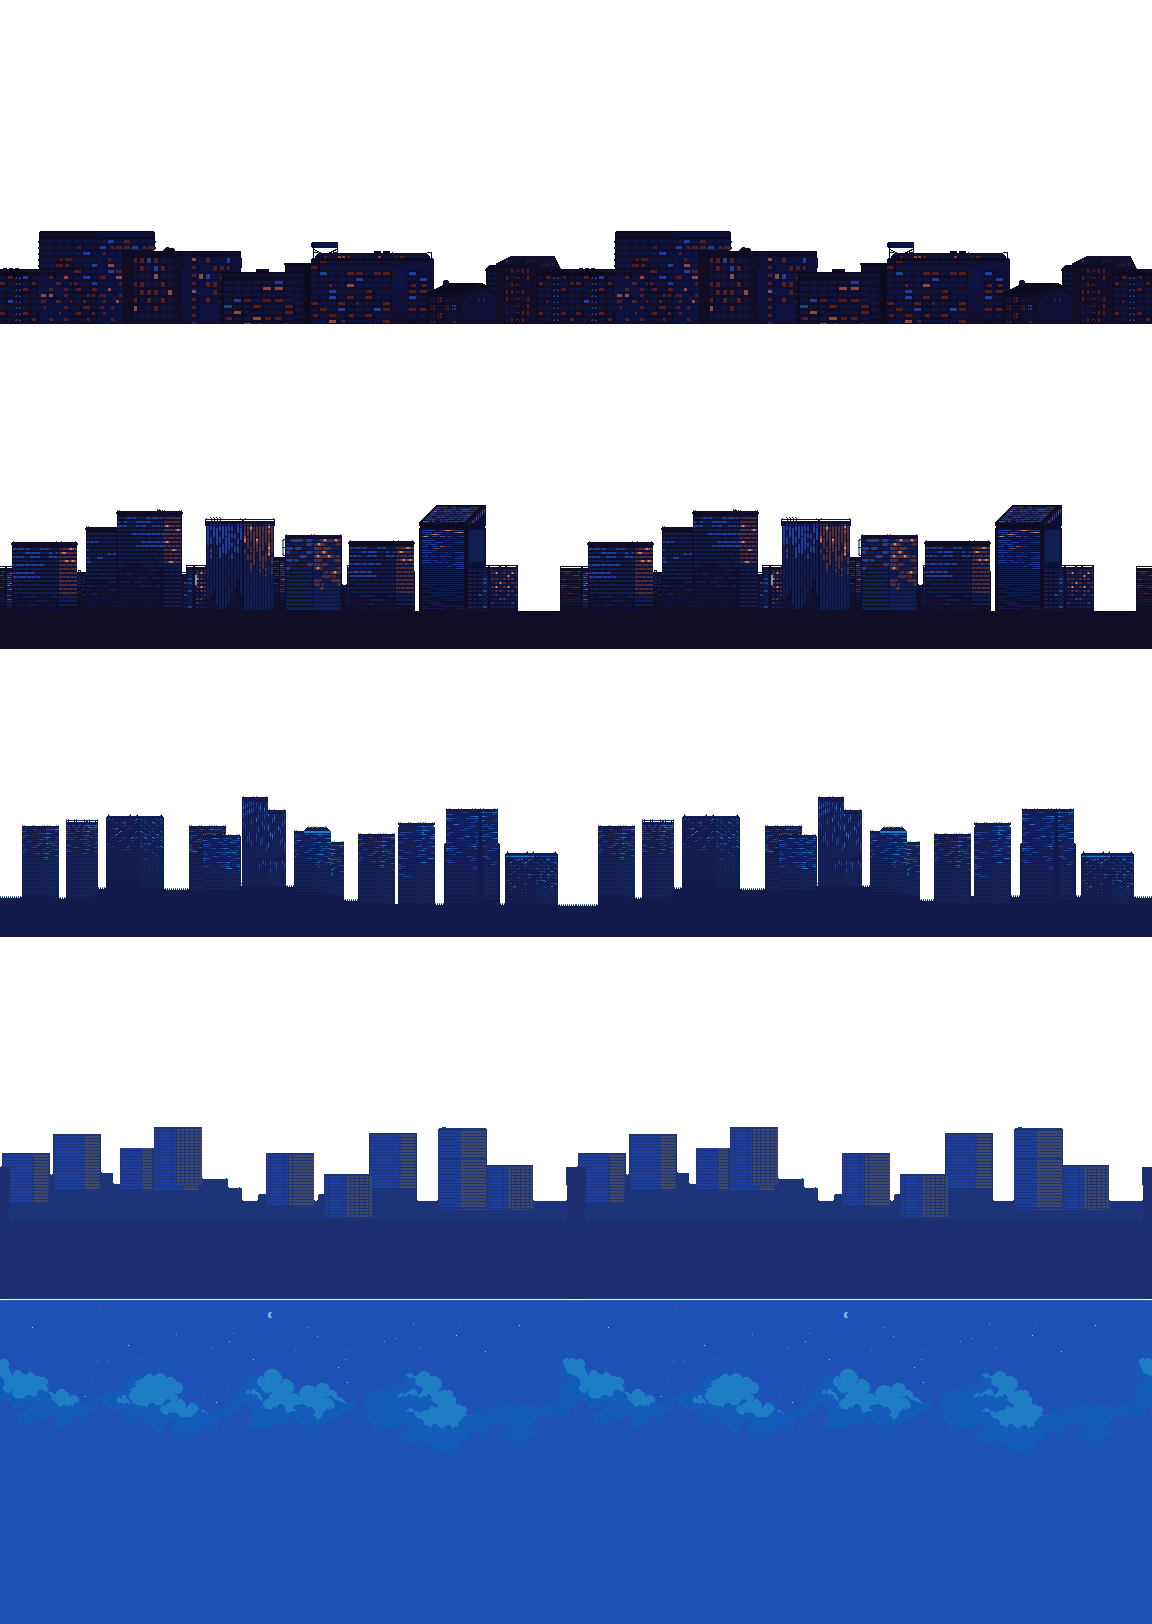
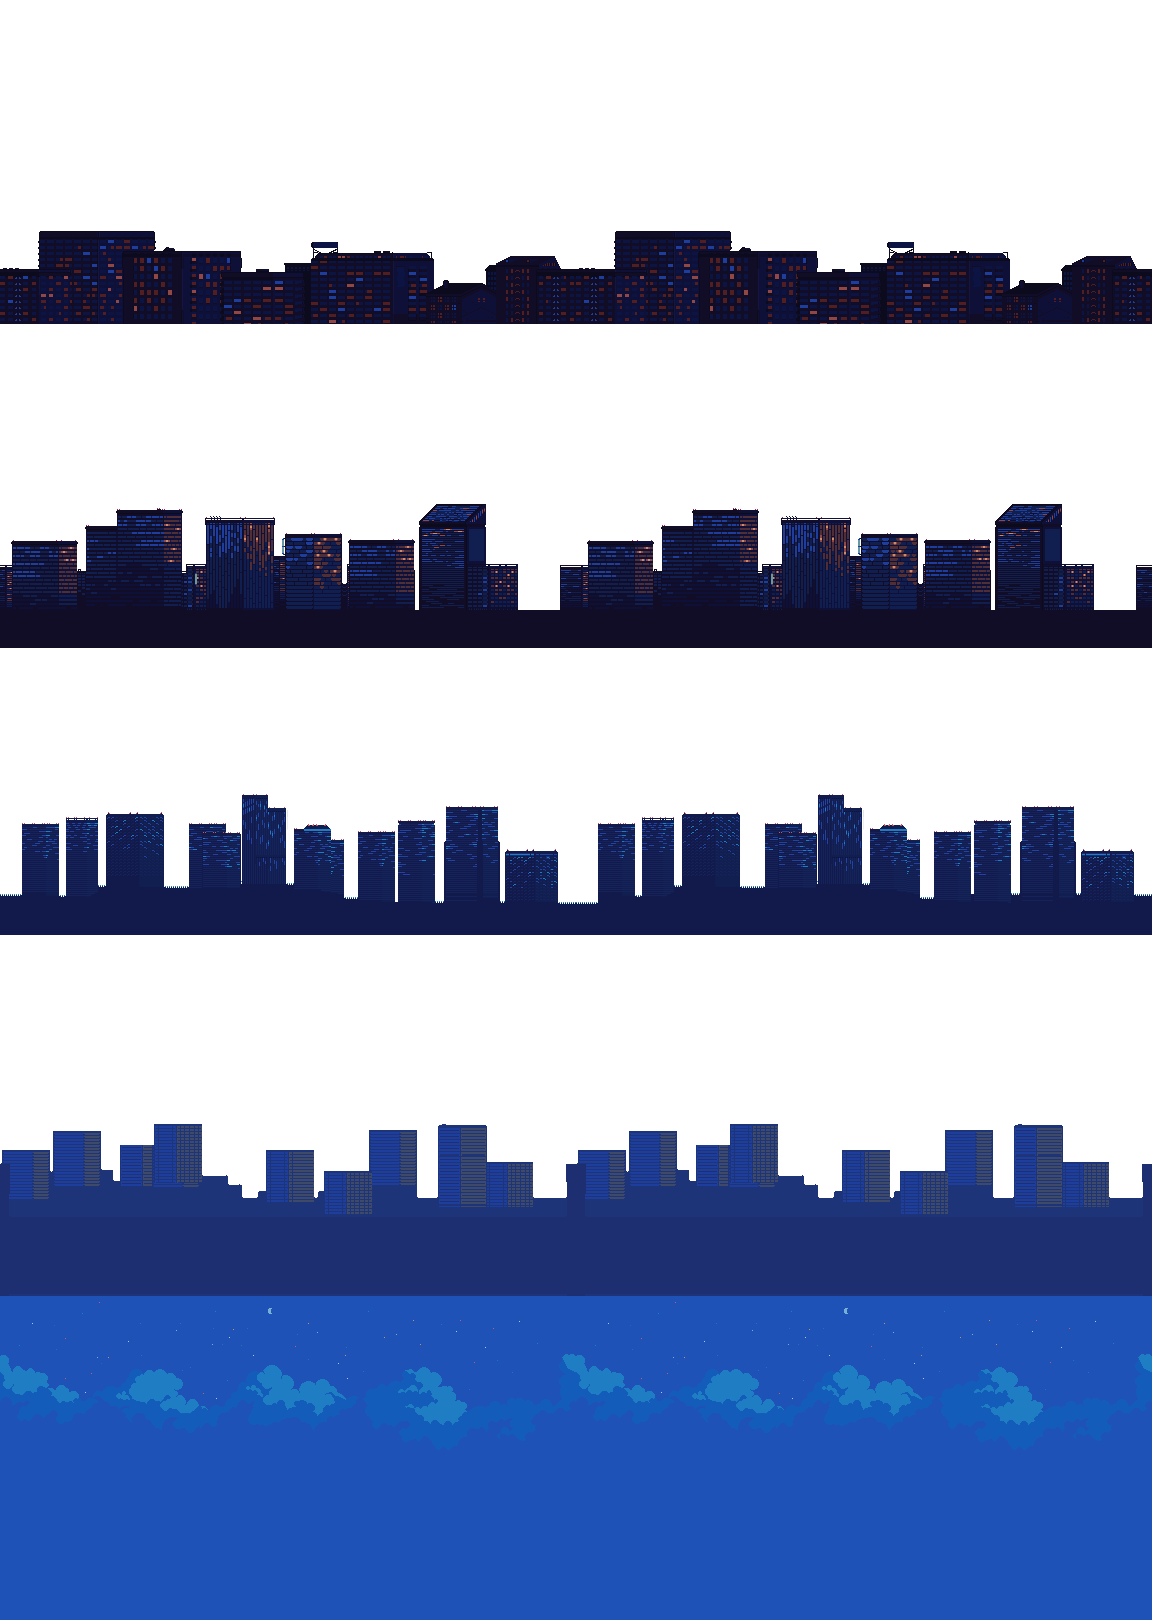
Made title appear in menu. Changed parallax layers speed according to cubic polynomial

diff --git a/DTU/src/main_menu/main_menu.cpp b/DTU/src/main_menu/main_menu.cpp
@@ -2,6 +2,8 @@
 
 #include "player/logging.hpp"
 #include "player/nonuniform_tiles.hpp"
+#include "player/static_image.hpp"
+#include "player/window.hpp"
 
 #include <array>
 #include <glm/gtc/matrix_transform.hpp>
@@ -9,18 +11,37 @@
 
 // NOLINTNEXTLINE
 static surge::atom::nonuniform_tiles::buffer_data g_background_buffer{};
+
+// NOLINTNEXTLINE
 static surge::atom::nonuniform_tiles::draw_data g_background_draw_data{};
 
-static constexpr const GLsizei background_layer_count{5};
-static constexpr const std::array<float, background_layer_count> background_drift_speeds{
-    0.0f, 0.01f, 0.02f, 0.04f, 0.08f};
+// NOLINTNEXTLINE
+static surge::atom::static_image::one_buffer_data g_title_buffer{};
 
-auto DTU::state::main_menu::load(float ww, float wh) noexcept -> int {
+// NOLINTNEXTLINE
+static surge::atom::static_image::one_draw_data g_title_draw_data{};
+
+// Parallax background
+static constexpr const GLsizei background_layer_count{5};
+
+// clang-format off
+// Obtained from the cubic polynomial (4 + x + x^2) / 400
+static constexpr const std::array<float, background_layer_count> background_drift_speeds{
+    1.0f / 100.0f,
+    3.0f / 200.0f,
+    1.0f / 40.0f,
+    1.0f / 25.0f,
+    3.0f / 50.0f
+};
+// clang-format on
+
+auto DTU::state::main_menu::load(surge::queue<surge::u32> &cmdq, float ww, float wh) noexcept
+    -> int {
   using namespace surge;
 
   log_info("Loading main_menu state");
 
-  // Load background
+  // Background
   log_info("Loading background images");
 
   atom::nonuniform_tiles::tile_structure background_ts{"resources/main_menu/background.png",
@@ -40,29 +61,64 @@ auto DTU::state::main_menu::load(float ww, float wh) noexcept -> int {
         glm::translate(glm::mat4{1.0f}, glm::vec3{0.0, 0.0, z}), glm::vec3{2 * ww, wh, 1.0f}));
   }
 
+  // Title
+  log_info("Loading title image");
+
+  const auto title_buffer{atom::static_image::create("resources/main_menu/title.png",
+                                                     renderer::texture_filtering::linear,
+                                                     renderer::texture_wrap::clamp_to_border)};
+  if (!title_buffer) {
+    return static_cast<int>(title_buffer.error());
+  }
+  g_title_buffer = *title_buffer;
+
+  const float title_width{608.0f};
+  const float title_height{174.0f};
+
+  g_title_draw_data.pos = glm::vec3{(ww - title_width) / 2.0f, (wh - title_height) / 2.0f,
+                                    background_layer_count / 10.0f};
+  g_title_draw_data.scale = glm::vec3{title_width, title_height, 1.0f};
+  g_title_draw_data.region_dims = glm::vec2{title_width, title_height};
+  g_title_draw_data.region_origin = glm::vec2{0.0};
+  g_title_draw_data.alpha = 0.0f;
+
+  // First command
+  cmdq.push(commands::show_title);
+
   return 0;
 }
 
-auto DTU::state::main_menu::unload() noexcept -> int {
+auto DTU::state::main_menu::unload(surge::queue<surge::u32> &cmdq) noexcept -> int {
   using namespace surge;
   log_info("Unloading main_menu state");
 
   atom::nonuniform_tiles::cleanup(g_background_buffer);
+  atom::static_image::cleanup(g_title_buffer);
+
+  while (!cmdq.empty()) {
+    cmdq.pop();
+  }
 
   return 0;
 }
 
-auto DTU::state::main_menu::draw(unsigned int nuts, glm::mat4 &proj, glm::mat4 &view) noexcept
-    -> int {
+auto DTU::state::main_menu::draw(const shader_indices &&si, glm::mat4 &proj,
+                                 glm::mat4 &view) noexcept -> int {
   using namespace surge;
 
   g_background_draw_data.projection = proj;
   g_background_draw_data.view = view;
-  atom::nonuniform_tiles::draw(nuts, g_background_buffer, g_background_draw_data);
+
+  g_title_draw_data.projection = proj;
+  g_title_draw_data.view = view;
+
+  atom::nonuniform_tiles::draw(si.nonuniform_tiles, g_background_buffer, g_background_draw_data);
+  atom::static_image::draw(si.static_image, g_title_buffer, g_title_draw_data);
+
   return 0;
 }
 
-auto DTU::state::main_menu::update(double dt) noexcept -> int {
+auto DTU::state::main_menu::update(surge::queue<surge::u32> &cmdq, double dt) noexcept -> int {
   // Background parallax
   static std::array<float, background_layer_count> relative_positions{0};
 
@@ -79,5 +135,39 @@ auto DTU::state::main_menu::update(double dt) noexcept -> int {
     i++;
   }
 
+  // Command handler
+  switch (cmdq.front()) {
+
+  case commands::show_title:
+    if (g_title_draw_data.alpha < 1.0f) {
+      g_title_draw_data.alpha += 0.5f * gsl::narrow_cast<float>(dt);
+    } else {
+      g_title_draw_data.alpha = 1.0;
+      cmdq.pop();
+    }
+    break;
+
+  case commands::shift_title:
+    if (g_title_draw_data.pos[1] < 0.0f) {
+      g_title_draw_data.pos[1] -= 0.5f * gsl::narrow_cast<float>(dt);
+    } else {
+      g_title_draw_data.pos[1] = 0.0;
+      cmdq.pop();
+    }
+    break;
+
+  default:
+    break;
+  }
+
   return 0;
+}
+
+void DTU::state::main_menu::keyboard_event(surge::queue<surge::u32> &cmdq, int key, int, int action,
+                                           int) noexcept {
+  static bool title_shifted{false};
+  if (key == GLFW_KEY_ENTER && action == GLFW_PRESS && !title_shifted) {
+    cmdq.push(commands::shift_title);
+    title_shifted = true;
+  }
 }

diff --git a/DTU/src/DTU.cpp b/DTU/src/DTU.cpp
@@ -21,8 +21,14 @@ static glm::mat4 g_view{};
 // NOLINTNEXTLINE
 static GLuint g_nonuniform_tile_shader{0};
 
-// NOLINTNEXTLIN
+// NOLINTNEXTLINE
+static GLuint g_image_shader{0};
+
+// NOLINTNEXTLINE
 static DTU::state_id g_current_state_id{DTU::state_id::main_menu};
+
+// NOLINTNEXTLINE
+surge::queue<surge::u32> g_command_queue{};
 
 extern "C" SURGE_MODULE_EXPORT auto on_load(GLFWwindow *window) noexcept -> int {
   // Bind callbacks
@@ -47,7 +53,14 @@ extern "C" SURGE_MODULE_EXPORT auto on_load(GLFWwindow *window) noexcept -> int 
   }
   g_nonuniform_tile_shader = *nonuniform_tiles_shader;
 
-  return DTU::state::main_menu::load(ww, wh);
+  const auto image_shader{
+      surge::renderer::create_shader_program("shaders/image.vert", "shaders/image.frag")};
+  if (!nonuniform_tiles_shader) {
+    return static_cast<int>(surge::error::static_image_shader_creation);
+  }
+  g_image_shader = *image_shader;
+
+  return DTU::state::main_menu::load(g_command_queue, ww, wh);
 }
 
 extern "C" SURGE_MODULE_EXPORT auto on_unload(GLFWwindow *window) noexcept -> int {
@@ -57,10 +70,11 @@ extern "C" SURGE_MODULE_EXPORT auto on_unload(GLFWwindow *window) noexcept -> in
   }
 
   surge::renderer::cleanup_shader_program(g_nonuniform_tile_shader);
+  surge::renderer::cleanup_shader_program(g_image_shader);
 
   switch (g_current_state_id) {
   case DTU::state_id::main_menu:
-    return DTU::state::main_menu::unload();
+    return DTU::state::main_menu::unload(g_command_queue);
   default:
     break;
   }
@@ -69,7 +83,9 @@ extern "C" SURGE_MODULE_EXPORT auto on_unload(GLFWwindow *window) noexcept -> in
 extern "C" SURGE_MODULE_EXPORT auto draw() noexcept -> int {
   switch (g_current_state_id) {
   case DTU::state_id::main_menu:
-    return DTU::state::main_menu::draw(g_nonuniform_tile_shader, g_projection, g_view);
+    return DTU::state::main_menu::draw(
+        DTU::state::main_menu::shader_indices{g_nonuniform_tile_shader, g_image_shader},
+        g_projection, g_view);
   default:
     break;
   }
@@ -78,13 +94,21 @@ extern "C" SURGE_MODULE_EXPORT auto draw() noexcept -> int {
 extern "C" SURGE_MODULE_EXPORT auto update(double dt) noexcept -> int {
   switch (g_current_state_id) {
   case DTU::state_id::main_menu:
-    return DTU::state::main_menu::update(dt);
+    return DTU::state::main_menu::update(g_command_queue, dt);
   default:
     break;
   }
 }
 
-extern "C" SURGE_MODULE_EXPORT void keyboard_event(GLFWwindow *, int, int, int, int) noexcept {}
+extern "C" SURGE_MODULE_EXPORT void keyboard_event(GLFWwindow *, int key, int scancode, int action,
+                                                   int mods) noexcept {
+  switch (g_current_state_id) {
+  case DTU::state_id::main_menu:
+    return DTU::state::main_menu::keyboard_event(g_command_queue, key, scancode, action, mods);
+  default:
+    break;
+  }
+}
 
 extern "C" SURGE_MODULE_EXPORT void mouse_button_event(GLFWwindow *, int, int, int) noexcept {}
 

diff --git a/player/src/static_image.cpp b/player/src/static_image.cpp
@@ -17,8 +17,8 @@
 #  include <tracy/TracyOpenGL.hpp>
 #endif
 
-auto surge::atom::static_image::create(const char *p,
-                                       renderer::texture_filtering filtering) noexcept
+auto surge::atom::static_image::create(const char *p, renderer::texture_filtering filtering,
+                                       renderer::texture_wrap wrap) noexcept
     -> tl::expected<one_buffer_data, error> {
 #if defined(SURGE_BUILD_TYPE_Profile) && defined(SURGE_ENABLE_TRACY)
   ZoneScopedN("surge::atom::static_image::create");
@@ -43,8 +43,8 @@ auto surge::atom::static_image::create(const char *p,
   glBindTexture(GL_TEXTURE_2D, texture_id);
 
   // Warpping
-  glTexParameteri(GL_TEXTURE_2D, GL_TEXTURE_WRAP_S, GL_REPEAT);
-  glTexParameteri(GL_TEXTURE_2D, GL_TEXTURE_WRAP_T, GL_REPEAT);
+  glTexParameteri(GL_TEXTURE_2D, GL_TEXTURE_WRAP_S, static_cast<GLenum>(wrap));
+  glTexParameteri(GL_TEXTURE_2D, GL_TEXTURE_WRAP_T, static_cast<GLenum>(wrap));
 
   // Filtering
   glTexParameteri(GL_TEXTURE_2D, GL_TEXTURE_MIN_FILTER, static_cast<GLenum>(filtering));
@@ -136,6 +136,8 @@ void surge::atom::static_image::draw(GLuint shader_program, const one_buffer_dat
 
   renderer::uniforms::set(shader_program, "h_flip", dctx.h_flip);
   renderer::uniforms::set(shader_program, "v_flip", dctx.v_flip);
+
+  renderer::uniforms::set(shader_program, "alpha", dctx.alpha);
 
   glActiveTexture(GL_TEXTURE0);
   glBindTexture(GL_TEXTURE_2D, ctx.texture_id);

diff --git a/DTU/include/main_menu/main_menu.hpp b/DTU/include/main_menu/main_menu.hpp
@@ -1,14 +1,27 @@
 #ifndef SURGE_DTU_STATE_MAIN_MENU
 #define SURGE_DTU_STATE_MAIN_MENU
 
+#include "player/container_types.hpp"
+
 #include <glm/glm.hpp>
 
 namespace DTU::state::main_menu {
 
-auto load(float ww, float wh) noexcept -> int;
-auto unload() noexcept -> int;
-auto draw(unsigned int nuts, glm::mat4 &proj, glm::mat4 &view) noexcept -> int;
-auto update(double dt) noexcept -> int;
+struct shader_indices {
+  unsigned int nonuniform_tiles;
+  unsigned int static_image;
+};
+
+enum commands : surge::u32 { idle, show_title, shift_title, show_menu };
+
+auto load(surge::queue<surge::u32> &cmdq, float ww, float wh) noexcept -> int;
+auto unload(surge::queue<surge::u32> &cmdq) noexcept -> int;
+
+auto draw(const shader_indices &&si, glm::mat4 &proj, glm::mat4 &view) noexcept -> int;
+auto update(surge::queue<surge::u32> &cmdq, double dt) noexcept -> int;
+
+void keyboard_event(surge::queue<surge::u32> &cmdq, int key, int scancode, int action,
+                    int mods) noexcept;
 
 } // namespace DTU::state::main_menu
 

diff --git a/player/include/static_image.hpp b/player/include/static_image.hpp
@@ -29,12 +29,14 @@ struct one_draw_data {
   glm::vec3 scale;
   glm::vec2 region_origin;
   glm::vec2 region_dims;
+  float alpha{1.0f};
   bool h_flip{false};
   bool v_flip{false};
 };
 
 auto create(const char *p,
-            renderer::texture_filtering filtering = renderer::texture_filtering::linear) noexcept
+            renderer::texture_filtering filtering = renderer::texture_filtering::linear,
+            renderer::texture_wrap wrap = renderer::texture_wrap::repeat) noexcept
     -> tl::expected<one_buffer_data, error>;
 
 void draw(GLuint shader_program, const one_buffer_data &ctx, const one_draw_data &dctx) noexcept;

diff --git a/player/src/text.cpp b/player/src/text.cpp
@@ -186,6 +186,12 @@ auto surge::atom::text::create_charmap(buffer_data &data, FT_UInt pixel_height,
   return map;
 }
 
+void surge::atom::text::destroy_charmap(const charmap_data &charmap) noexcept {
+  for (auto map : charmap.texture_ids) {
+    glDeleteTextures(1, &map);
+  }
+}
+
 void surge::atom::text::draw(GLuint shader_program, const buffer_data &bd, const charmap_data &cd,
                              const draw_data &dd, std::string_view text,
                              float extra_vskip) noexcept {

diff --git a/player/include/container_types.hpp b/player/include/container_types.hpp
@@ -16,6 +16,7 @@ template <typename T> using std_mfa = foonathan::memory::std_allocator<T, mfa>;
 // Container Aliases
 template <typename T, std::size_t N> using array = std::array<T, N>;
 template <typename T> using deque = foonathan::memory::deque<T, mfa>;
+template <typename T> using queue = foonathan::memory::queue<T, mfa>;
 template <typename T> using vector = foonathan::memory::vector<T, mfa>;
 using string = std::basic_string<char, std::char_traits<char>, std_mfa<char>>;
 

diff --git a/player/include/renderer.hpp b/player/include/renderer.hpp
@@ -24,6 +24,13 @@ enum class blend_dest : GLenum { one_minus_src_alpha = GL_ONE_MINUS_SRC_ALPHA };
 
 enum class texture_filtering : GLenum { nearest = GL_NEAREST, linear = GL_LINEAR };
 
+enum class texture_wrap : GLenum {
+  repeat = GL_REPEAT,
+  mirrored_repeat = GL_MIRRORED_REPEAT,
+  clamp_to_edge = GL_CLAMP_TO_EDGE,
+  clamp_to_border = GL_CLAMP_TO_BORDER
+};
+
 void enable(const capability cap) noexcept;
 void disable(const capability cap) noexcept;
 

diff --git a/player/include/text.hpp b/player/include/text.hpp
@@ -59,6 +59,8 @@ auto create_charmap(buffer_data &data, FT_UInt pixel_height,
                     = renderer::texture_filtering::linear) noexcept
     -> tl::expected<charmap_data, error>;
 
+void destroy_charmap(const charmap_data &charmap) noexcept;
+
 void draw(GLuint shader_program, const buffer_data &bd, const charmap_data &cd, const draw_data &dd,
           std::string_view text, float extra_vskip = 5.0f) noexcept;
 

diff --git a/player/src/files.cpp b/player/src/files.cpp
@@ -26,7 +26,6 @@
 
 #if defined(SURGE_BUILD_TYPE_Profile) && defined(SURGE_ENABLE_TRACY)
 #  include <tracy/Tracy.hpp>
-#  include <tracy/TracyOpenGL.hpp>
 #endif
 
 auto surge::files::validate_path(const char *path) noexcept -> bool {
